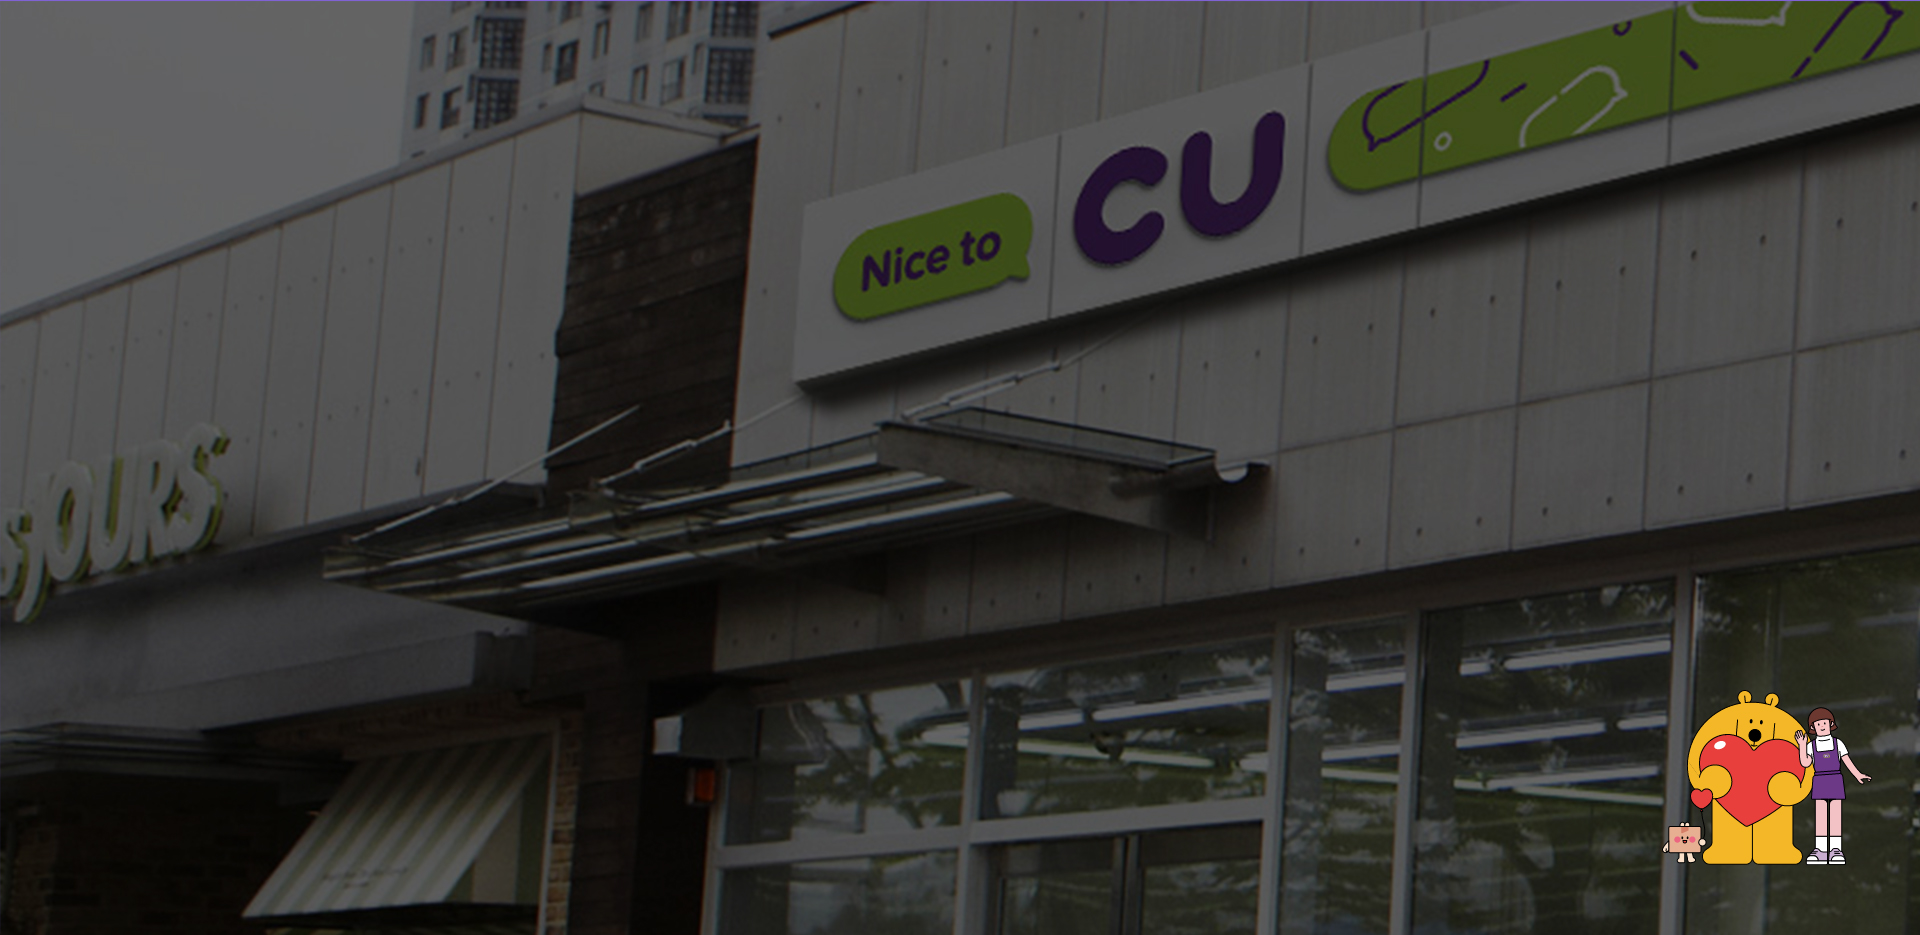
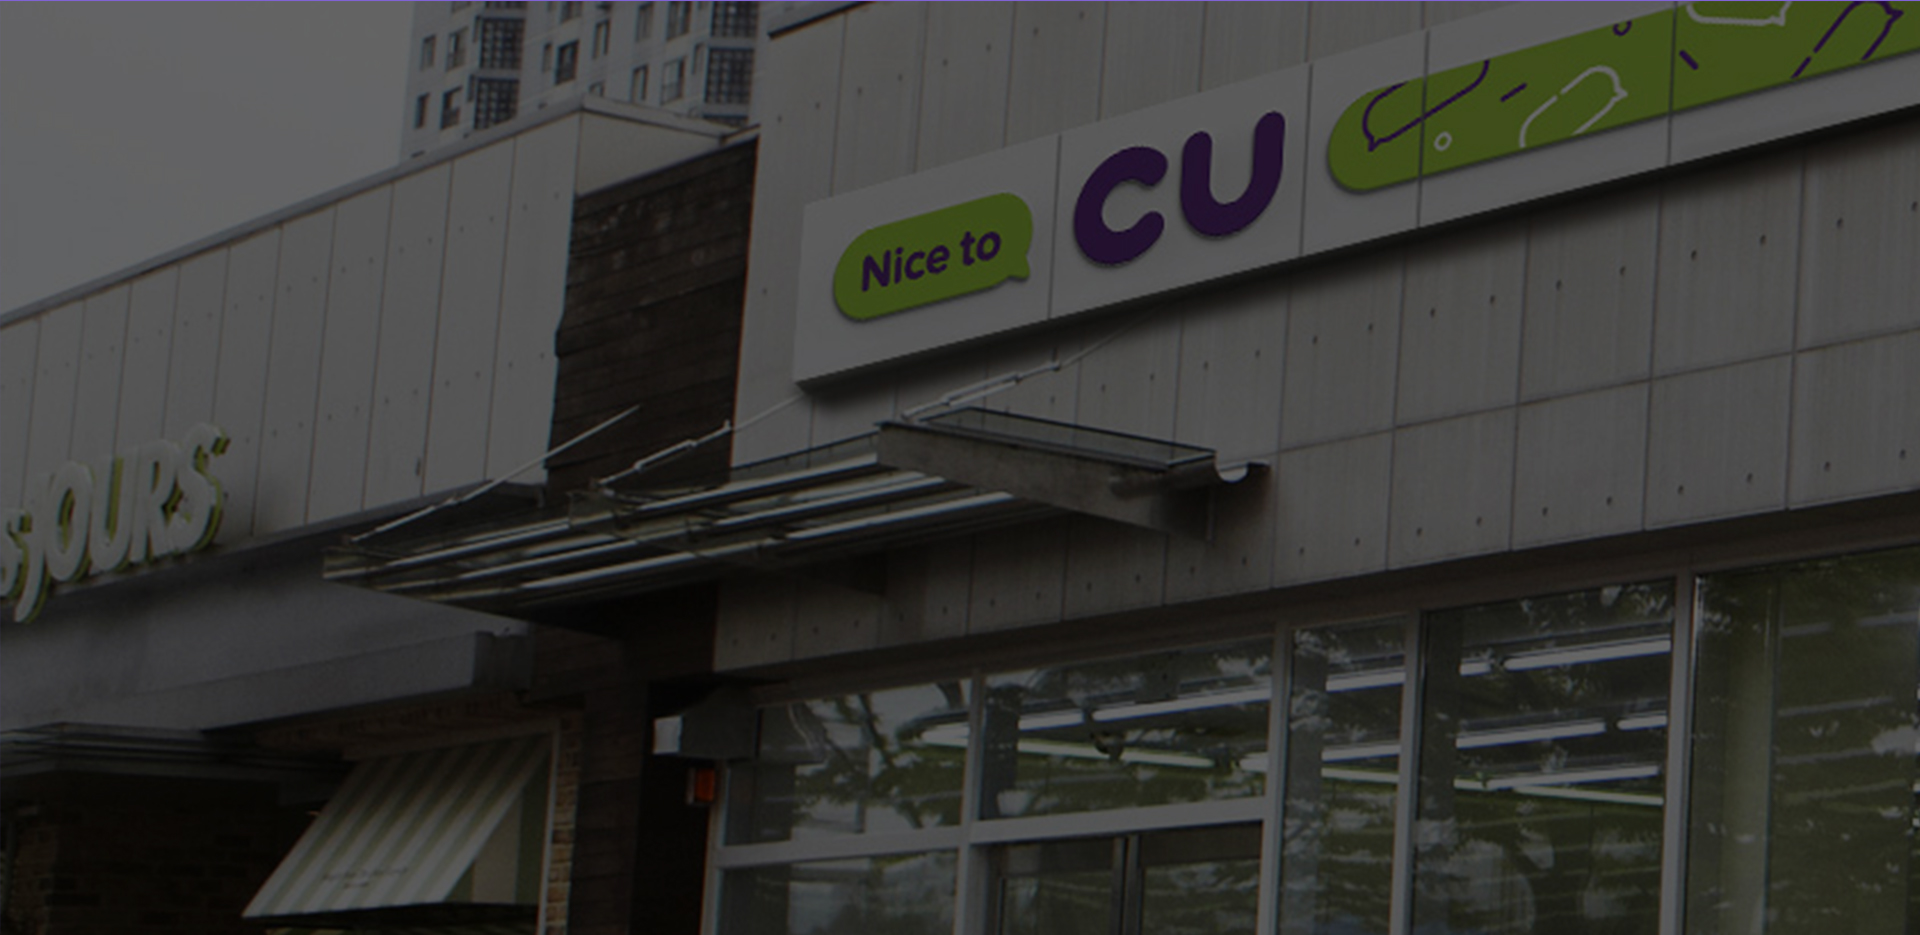
20220802

Changed region(s): [[0.8438, 0.7444, 0.9688, 0.9305]]

diff --git a/07cu/css/style.css b/07cu/css/style.css
@@ -3,7 +3,7 @@
 .container{width: 1240px;margin: 0 auto}
 
 /* header  */
-#header{position:fixed;;width: 100%;z-index:100 ;}
+#header{position:fixed;width: 100%;z-index:100 ;}
 
 #header.fixed{
     position: fixed;
@@ -278,18 +278,36 @@
 
 
 
-.storyWrpa{display: flex;justify-content: center;
-        align-items: center;}
 
-.storyWrpa .bg{ position: relative; padding: 400px 0;}
+.storyWrap{background-attachment: fixed;  height: 80vh;  position: relative;
+    background-image: url(../images/sec2_contents.jpg); 
+    background-position: center;
+    background-repeat: no-repeat; margin-top: 400px; padding: 50px 30px;
+    
+       }
+
+.storyWrap img{width: 80%; display: flex; justify-content: center;align-items: center;position: absolute; margin-left: 80px;} 
+
+       
+       /* .story{ display: flex; justify-content: center; align-items: center;width:1000vh ;}  
+       .storyWrap h2{display: flex; justify-content: center; align-content: center; position: absolute;} */
+/* .storyWrap h2{display: flex; justify-content: center; position: absolute;}
+.story{ display: flex; justify-content: center; align-items: center; padding: 100px 0; position: absolute; }
+.iconWrap{background-color: #fff; }
+.iconWrap li{float: left; }
+.iconWrap li img{margin-right: -30px;}
+.iconWrap .text{text-align: center;} */
+
+
+/* .storyWrpa .bg{  }
 .sliderWrap .icon ul{}
-.storyWrpa .icon {position:absolute; }
+.storyWrpa .icon {s }
 .storyWrpa .icon li{ float: left;width: calc(100% / 4);padding: 0 60px; } 
 .storyWrpa .icon img{}
 .storyWrpa .text{text-align: center; color: #fff; }
 .storyWrpa .text h3{font-size: 20px;}
 
-.storyWrpa .text h4{font-size: 14px; }
+.storyWrpa .text h4{font-size: 14px; } */
 /********** css responsive  **********/
 
 
@@ -376,13 +394,13 @@
     .mMenu{width: 200px;}
     .mMenu>i{ padding: 28px 380px; font-size: 30px;color: #fff;}
     .mMenu>ul>li{padding: 20px; }
-    .mMenu>ul>li>a{display: flex;height: 50px;align-items: center;
+    .mMenu>ul>li>a{display: flex;height: _50px;align-items: center;
         justify-content: center;
         color: #ffffff; font-size: 20px;
     }
     .mMenu>ul>li.hover .submenu{display: block;}
     .mMenu>ul>li .submenu{padding: 10px 16px;display: none;}
-    .mMenu>ul>li .submenu a{line-height: 30px;text-align: center;color: #000;}
+    .mMenu>ul>li .submenu a{_line-height: 30px;text-align: center;color: #000;}
     .mMenu>ul>li .submenu a:hover{color: #6837f8;}
 
 

diff --git a/07cu/index.html b/07cu/index.html
@@ -320,10 +320,12 @@
 
 
     <section class="contents container story">
-        <div class="storyWrpa">
-            <img class="bg" src="images/sec2_contents.jpg" alt="">
-            <h2>스토리</h2>
-        <div class="icon">
+        <div class="storyWrap">
+            <img src="images/2.png" alt="">
+            <!-- <h2>스토리</h2>
+            <div class="story">
+                
+        <div class="iconWrap">
             <ul class="clerfix" >
                 <li><img src="images/sec2_icon01.png" alt="">
                     <div class="text">
@@ -364,6 +366,8 @@
 
             </ul>
         </div>
+            </div>
+             -->
         </div>
     </section>
 
